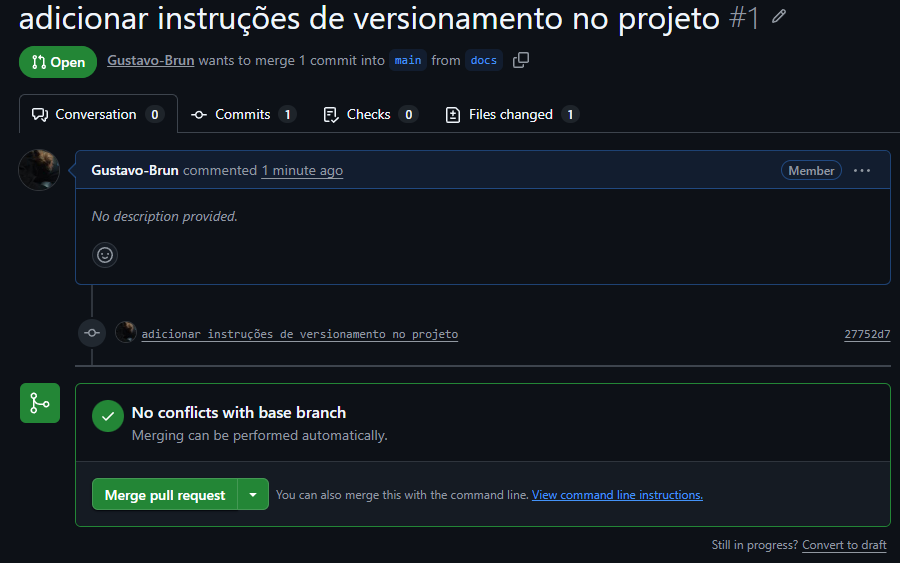
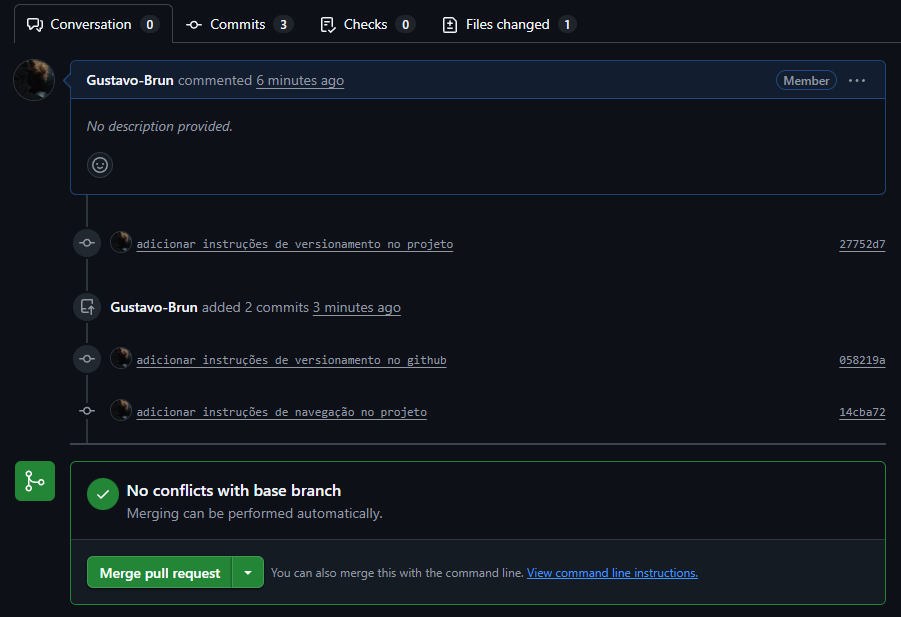
adicionar instruções de navegação no projeto

diff --git a/README.md b/README.md
@@ -13,6 +13,11 @@ Signal: Sistema de Recomendações de gêneros de Filmes/Series.
 - **Envio da branch para o github** — `git push origin "nome-da-branch"`
   **_Exemplo_**: git push origin SGN-01
 
+- **Listar branches** — `git branch`
+  **_Exemplo_**: git branch
+- **Navegação pelas branches** — `git checkout "nome-da-branch"`
+  **_Exemplo_**: git checkout main
+
 ---- No github ----
 
 - **Branch no github** — Após o push, a branch estará disponível no github. Clique no botão verde.
